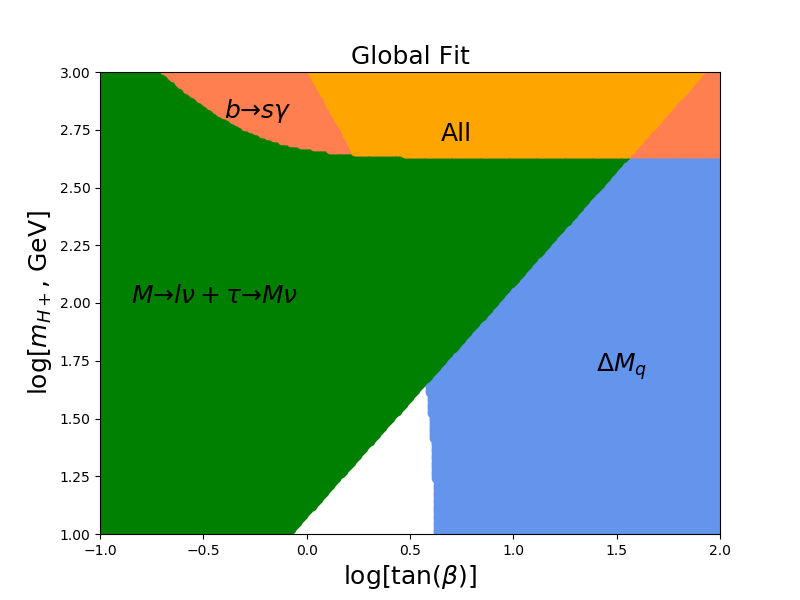
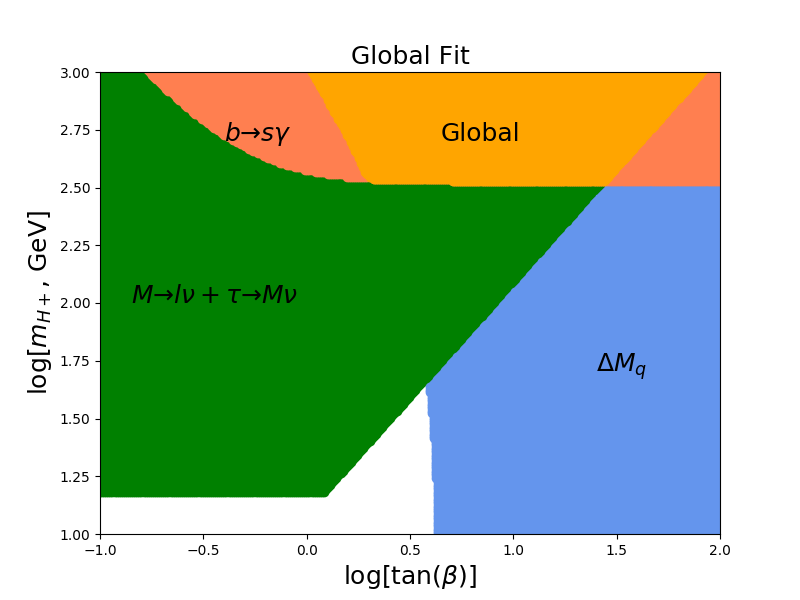
ups

diff --git a/calcs/functions.py b/calcs/functions.py
@@ -88,62 +88,117 @@ def itera(mm,mm_err,ml,ml_err,Vud,Vud_err,fm,fm_err,taum,taum_err,mu,mu_err,md,m
 
     return mH_loc, tanb_loc
 
-def mixing(mt,mH,mW,tanb,Vtq,Vtb,etaB,mB,fBq,BBq,expect):
+def Li2(x):
+    '''
+    Special function
+    '''
+    def func(t):
+        z = np.log(1-t)/t
+        return z
+    inte, err = quad(func,0,x)
+    return -1*inte
+
+def mixing(mt,mH,mW,tanb,Vtq,Vtb,etaB,mB,fBq,BBq,expect,lam):
     '''
         B mixing mass eqn
     '''
-    x_tH = mt**2/mH**2
-    x_tW = mt**2/mW**2
-    x_HW = mH**2/mW**2
-    S_WH = (x_tH/tanb**2)*((2*x_HW-8)*np.log(x_tH)/((1-x_HW)*(1-x_tH)**2) + 6*x_HW*np.log(x_tW)/((1-x_HW)*(1-x_tW)**2) - (8-2*x_tW)/((1-x_tW)*(1-x_tH)))
-    S_WW = (1 + 9/(1-x_tW) - 6/((1-x_tW)**2) - 6*(x_tW**2)*np.log(x_tW)/((1-x_tW)**3))
-    S_HH = (x_tH/tanb**4)*((1+x_tH)/((1-x_tH)**2) + 2*x_tH*np.log(x_tH)/((1-x_tH)**3))
-    
-#    Dsm = 
-#    DH = 
-#    Dx = 
-#
-#    lam_QCD = 224.972
-#    lmu = 2*np.log(mW/lam_QCD)
-#    as_m = (12*np.pi/(23*lmu))*(1 - (348/529)*(np.log(lmu)/lmu))
-#    eta2 = pow(as_m,-6/23)*(1+(as_m/(4*np.pi))*(Dx/Sx + Z))
+    lmu = 2*np.log(mW/lam)
+    as_m = (12*np.pi/(23*lmu))*(1 - (348/529)*(np.log(lmu)/lmu))
+    lmuM = 2*np.log(mW/mt)
+    amu = as_m/np.pi
+    factor = 1 - (4/3 + lmuM)*amu - (9.125 + 419*lmuM/72 + (2/9)*lmuM**2)*amu**2 - (0.3125*lmuM**3 + 4.5937*lmuM**2 + 25.3188*lmuM + 81.825)*amu**3
+    mtmu = mt*factor
+    gam0,gam1,b0,b1 = 4,-43/9,23/3,116/3
 
-    delt_mq = g_mev/(24*np.pi**2)*((Vtq*Vtb)**2)*etaB*mB*(mt**2)*(fBq**2)*BBq*(S_WW + S_WH + S_HH)
-#    delt_mq = expect*(1+(S_WH/S_WW)+(S_HH/S_WW))
+    x_tH = (mtmu/mH)**2
+    x_tW = (mtmu/mW)**2
+    x_HW = (mH/mW)**2
+    S_WH = (x_tH*x_tW/(4*tanb**2))*((2*x_tW-8*x_tH)*np.log(x_tH)/((x_tH-x_tW)*(1-x_tH)**2) + 6*x_tW*np.log(x_tW)/((x_tH-x_tW)*(1-x_tW)**2) - (8-2*x_tW)/((1-x_tW)*(1-x_tH)))
+    S_WW = x_tW*(1/4 + 9/(4*(1-x_tW)) - 3/(2*(1-x_tW)**2) - 3*(x_tW**2)*np.log(x_tW)/(2*(1-x_tW)**3))
+    S_HH = (x_tH*x_tW/(4*tanb**4))*((1+x_tH)/((1-x_tH)**2) + 2*x_tH*np.log(x_tH)/((1-x_tH)**3))
 
-    return delt_mq/hbar_mev
+    Lo = Li2(1-1/x_tW)
+    Lu = Li2(1-x_tW)
+    WW1tt = (4*x_tW+38*(x_tW**2)+6*(x_tW**3))*np.log(x_tW)/(x_tW-1)**4 + (12*x_tW+48*(x_tW**2)+12*(x_tW**3))*Lo/(x_tW-1)**4 + (24*x_tW+48*(x_tW**2))*Lu/(x_tW-1)**4 - (3+28*x_tW+17*(x_tW**2))/(x_tW-1)**3
+    WW1tu = 2*(3+13*x_tW)/(x_tW-1)**2 - 2*x_tW*(5+11*x_tW)*np.log(x_tW)/(x_tW-1)**3 - 12*x_tW*(1+3*x_tW)*Lo/(x_tW-1)**3 - 24*x_tW*(1+x_tW)*Lu/(x_tW-1)**3
+    PP1 = -(x_tW**2)*(7+52*x_tW-11*(x_tW**2))/(4*(x_tW-1)**3) + 3*(x_tW**3)*(4+5*x_tW-x_tW**2)*np.log(x_tW)/(2*(x_tW-1)**4) + 3*(x_tW**3)*(3+4*x_tW-x_tW**2)*Lo/(x_tW-1)**4 + 18*(x_tW**3)*Lu/(x_tW-1)**4
+    WP1 = 4*(x_tW**2)*(11+13*x_tW)/(x_tW-1)**3  + 2*(x_tW**2)*(5+x_tW)*(1-9*x_tW)*np.log(x_tW)/(x_tW-1)**4 - 24*(x_tW**2)*(1+4*x_tW+x_tW**2)*Lo/(x_tW-1)**4 - 48*(x_tW**2)*(1+2*x_tW)*Lu/(x_tW-1)**4
+    WW1 = WW1tt - WW1tu + 3
+    L1s = WW1 + WP1 + PP1
 
-def error_mixing(mt,mt_err,mH,mW,mW_err,tanb,Vtq,Vtq_err,Vtb,Vtb_err,etaB,etaB_err,mB,mB_err,fBq,fBq_err,BBq,BBq_err,expect,expect_err):
+    WW8tt = 2*x_tW*(4-3*x_tW)*np.log(x_tW)/(x_tW-1)**3 - (12*x_tW-12*x_tW**2 -8*x_tW**3)*Lo/(x_tW-1)**4 + (8-12*x_tW+12*x_tW**2)*Lu/(x_tW-1)**4 - (23-x_tW)/(x_tW-1)**2 
+    WW8tu = 2*(2-x_tW)*(np.pi**2)/(3*x_tW) - (8-5*x_tW)*np.log(x_tW)/(x_tW-1)**2 - (6*x_tW+4*x_tW**2)*Lo/(x_tW*(x_tW-1)**2) + (8+12*x_tW-6*x_tW**2)*Lu/(x_tW*(x_tW-1)**2) - 15/(x_tW-1)
+    PP8 = -11*(x_tW**2)*(1+x_tW)/(4*(x_tW-1)**2) + (x_tW**3)*(4-3*x_tW)*np.log(x_tW)/(2*(x_tW-1)**3) + (x_tW**3)*(3-3*x_tW+2*x_tW**2)*Lo/(x_tW-1)**4 + (x_tW**2)*(2+3*x_tW-3*x_tW**2)*Lu/(x_tW-1)**4
+    WP8 = 30*(x_tW**2)/(x_tW-1)**2 + 12*(x_tW**3)*np.log(x_tW)/(x_tW-1)**3 - 12*(x_tW**4)*Lo/(x_tW-1)**4 - 12*(x_tW**2)*(2-x_tW**2)*Lu/(x_tW-1)**4 
+    WW8 = WW8tt - WW8tu - 23 + (4/3)*np.pi**2
+    L8s = WW8 + WP8 + PP8
+
+    Loh = Li2(1-1/x_tH)
+    Luh = Li2(1-x_tH)
+    Louh = Li2(1-x_tH/x_tW)
+    PP1h = -(x_tH**2)*(7+52*x_tH-11*(x_tH**2))/(4*(x_tH-1)**3) + 3*(x_tH**3)*(4+5*x_tH-x_tH**2)*np.log(x_tH)/(2*(x_tH-1)**4) + 3*(x_tH**3)*(3+4*x_tH-x_tH**2)*Loh/(x_tH-1)**4 + 18*(x_tH**3)*Luh/(x_tH-1)**4
+    PP8h = -11*(x_tH**2)*(1+x_tH)/(4*(x_tH-1)**2) + (x_tH**3)*(4-3*x_tH)*np.log(x_tH)/(2*(x_tH-1)**3) + (x_tH**3)*(3-3*x_tH+2*x_tH**2)*Loh/(x_tH-1)**4 + (x_tH**2)*(2+3*x_tH-3*x_tH**2)*Luh/(x_tH-1)**4
+    dSHH = (x_tW*(x_tH**2)/(4*tanb**4))*((1+x_tH)/(1-x_tH)**2 + 2*x_tH*np.log(x_tH)/(1-x_tH)**3)
+    dSHW = ((x_tW**3)/(4*tanb**4))*((1+x_tW)/(1-x_tW)**2 + 2*x_tW*np.log(x_tW)/(1-x_tW)**3)
+#    dSHH = x_tH*((x_tH*x_tW/(4*tanb**4))*(2/(1-x_tH)**3 + (1-x_tH)**(-2) + 2*(1+x_tH)/(1-x_tH)**3 + 2*np.log(x_tH)/(1-x_tH)**3 + 6*x_tH*np.log(x_tH)/(1-x_tH)**4) + (x_tW/(4*tanb**4))*((1+x_tH)/(1-x_tH)**2 + 2*x_tH*np.log(x_tH)/(1-x_tH)**3))
+#    dSHW = (x_tH*x_tW/(4*tanb**4))*((1+x_tH)/(1-x_tH)**2 + 2*x_tH*np.log(x_tH)/(1-x_tH)**3)
+    HH1 = (x_tW/x_tH)*PP1h+6*(np.log(x_tH)-np.log(x_tW))*(dSHH+dSHW)
+    WH1 = x_tW*(2*(x_tH**2)*(13+3*x_tH)*np.log(x_tH)/((x_tH-x_tW)*(x_tH-1)**3) - 2*x_tH*(9+7*x_tH+7*x_tW-23*x_tW*x_tH)/pow((x_tW-1)*(x_tH-1),2) - 2*(x_tH**2)*(18-6*x_tH-44*x_tW+13*x_tH*x_tW+9*x_tH*x_tW**2)*np.log(x_tW)/((x_tH-x_tW)*(x_tH-1)**2 *(x_tW-1)**3) - 24*(x_tH**2)*np.log(x_tH)*np.log(x_tW)/((x_tH-x_tW)*(x_tH-1)**3) + 24*(x_tH**2)*Loh/((x_tH-x_tW)*(x_tH-1)**2) - 24*x_tH*x_tW*(1+x_tW)*Lo/((x_tH-x_tW)*(x_tW-1)**3) - 48*x_tW*x_tH*Lu/((x_tH-x_tW)*(x_tW-1)**3))
+    PH1 = (x_tW**2)*(x_tH*(31-15*x_tH-15*x_tW-x_tH*x_tW)/(2*pow((x_tH-1)*(x_tW-1),2)) - x_tH*(7+21*x_tH-12*x_tH**2)*np.log(x_tH)/(2*(x_tH-x_tW)*(x_tH-1)**3) + x_tH*(7-9*x_tW+36*x_tW**2 - 18*x_tW**3)*np.log(x_tW)/(2*(x_tH-x_tW)*(x_tH-1)**2 *(x_tW-1)**3) + (x_tH**2)*(8-36*x_tW+9*x_tW**2 + 3*x_tW**3)*np.log(x_tW)/((x_tH-x_tW)*(x_tH-1)**2 *(x_tW-1)**3) - (x_tH**3)*(11-45*x_tW+18*x_tW**2)*np.log(x_tW)/(2*(x_tH-x_tW)*(x_tH-1)**2 *(x_tW-1)**3) + 6*x_tH*np.log(x_tH)*np.log(x_tW)/((x_tH-x_tW)*(x_tH-1)**3) - 6*x_tH*(1+x_tH-x_tH**2)*Loh/((x_tH-x_tW)*(x_tH-1)**2) + 6*x_tH*(1+2*x_tW**2 -x_tW**3)*Lo/((x_tH-x_tW)*(x_tW-1)**3) + 12*x_tH*Lu/((x_tH-x_tW)*(x_tW-1)**3))
+    HH8 = (x_tW/x_tH)*PP8h+6*(np.log(x_tH)-np.log(x_tW))*S_HH
+    WH8 = x_tW*(24*x_tH*x_tW*Lu/((x_tH-x_tW)*(x_tW-1)**2) + 6*(x_tH**2)*(5*x_tW-x_tH+3*x_tH*x_tW**2)*Lo/((x_tH-x_tW)*pow((x_tH-1)*(x_tW-1),2)*x_tW) + 6*x_tH*(2*x_tW**2 -10*x_tH*x_tW+x_tH*x_tW**2)*Lo/((x_tH-x_tW)*pow((x_tH-1)*(x_tW-1),2)) + 6*(x_tH**2)*(5*x_tW-x_tH-8*x_tW**2 +2*x_tH*x_tW**2)*Luh/((x_tH-x_tW)*pow((x_tH-1)*(x_tW-1),2)*x_tW) + 6*(x_tW**2 -x_tH*x_tW+2*(x_tH*x_tW)**2)*Luh/((x_tH-x_tW)*pow((x_tH-1)*(x_tW-1),2)) + 6*(x_tH**2)*(-x_tH+5*x_tW)*Loh/(x_tW*(x_tH-x_tW)*(x_tH-1)**2) - 6*(x_tH**2)*(5*x_tW-x_tH-8*x_tW**2 +2*x_tH*x_tW**2)*Louh/(x_tW*(x_tH-x_tW)*pow((x_tH-1)*(x_tW-1),2)) - 6*(x_tW**2 -x_tH*x_tW+2*(x_tH*x_tW)**2)*Louh/((x_tH-x_tW)*pow((x_tH-1)*(x_tW-1),2)) - 6*(x_tH**2)*(1-x_tH-np.log(x_tH))/((x_tW-1)*(x_tH-1)**2) + 6*x_tH*(2*x_tW-1)*np.log(x_tW)/((x_tH-1)*(x_tW-1)**2) + 6*(x_tH**2)*(5*x_tW-x_tH-8*x_tW**2)*np.log(x_tH)*np.log(x_tW)/(x_tW*(x_tH-x_tW)*pow((x_tH-1)*(x_tW-1),2)) + 12*(x_tH**2)*(x_tH*x_tW+x_tW**2)*np.log(x_tH)*np.log(x_tW)/((x_tH-x_tW)*pow((x_tH-1)*(x_tW-1),2)))
+    PH8 = (x_tW**2)*((2*x_tH+2*x_tW-11*x_tH*x_tW)/(2*x_tW*(x_tW-1)*(x_tH-1)) - (2*x_tH**2 -7*x_tH*x_tW+2*x_tW*x_tH**2 +2*x_tW**2 +x_tH*x_tW**2)*np.log(x_tH)/(2*x_tW*(x_tW-1)*(x_tH-x_tW)*(x_tH-1)**2) - x_tH*(7-7*x_tH+4*x_tW-6*x_tW**2)*np.log(x_tW)/(2*(x_tH-1)*(x_tH-x_tW)*(x_tW-1)**2) + (x_tH**2 +x_tW**2 -3*pow(x_tH*x_tW,2))*np.log(x_tW)/(x_tW*(x_tH-1)*(x_tH-x_tW)*(x_tW-1)**2) - (x_tH**2)*(4-6*x_tW+3*x_tH*x_tW)*np.log(x_tH)*np.log(x_tW)/(x_tW*(x_tH-x_tW)*pow((x_tH-1)*(x_tW-1),2)) + x_tH*(x_tH**2 -3*x_tW**2 +6*x_tW**3 -3*x_tW**4)*np.log(x_tH)*np.log(x_tW)/((x_tH-x_tW)*pow(x_tW*(x_tH-1)*(x_tW-1),2)) - x_tH*(3*x_tW**2 +2*x_tH*x_tW*(2+x_tW)-(x_tH**2)*(1+2*x_tW))*Loh/((x_tH-x_tW)*pow(x_tW*(x_tH-1),2)) - (4*x_tH*x_tW-6*x_tW*x_tH**2 +3*pow(x_tH*x_tW,2)-x_tW**2)*Luh/(x_tH*(x_tH-x_tW)*pow((x_tH-1)*(x_tW-1),2)) - (4*x_tW*x_tH**2 -6*pow(x_tH*x_tW,2)-x_tH**3 +3*(x_tW**2)*(x_tH**3))*Luh/((x_tH-x_tW)*pow(x_tW*(x_tW-1)*(x_tH-1),2)) + 2*(x_tH**2)*(6-x_tW**2 -3*x_tH+x_tW*x_tH)*Lo/((x_tH-x_tW)*pow((x_tH-1)*(x_tW-1),2)) - x_tH*(3*x_tW**2 +4*x_tH*x_tW-x_tH**2)*Lo/((x_tH-x_tW)*pow(x_tW*(x_tW-1)*(x_tH-1),2)) + (4*x_tH*x_tW-6*x_tW*x_tH**2 +3*pow(x_tH*x_tW,2)-x_tW**2)*Louh/(x_tH*(x_tH-x_tW)*pow((x_tH-1)*(x_tW-1),2)) + (x_tH**2)*(4*x_tW-6*x_tW**2 -x_tH+3*x_tH*x_tW**2)*Louh/((x_tH-x_tW)*pow(x_tW*(x_tH-1)*(x_tW-1),2)) - 6*x_tH*Lu/((x_tH-x_tW)*(x_tW-1)**2))
+    L1h = (1/tanb**2)*WH1 + (1/tanb**2)*PH1 + (1/tanb**4)*HH1
+    L8h = (1/tanb**2)*WH8 + (1/tanb**2)*PH8 + (1/tanb**4)*HH8
+
+    CA = 1/3
+    CF = 4/3
+    Dsm = CF*(L1s+3*S_WW)+CA*(L8s+5*S_WW)
+    DH = CF*(L1h+3*(S_WH+S_HH))+CA*(L8h+5*(S_WH+S_HH))
+    Dx = Dsm + DH
+    Sx = S_WW+S_WH+S_HH
+    Z = -5165/3174
+    eta2 = pow(as_m,6/23)*(1+(as_m/(4*np.pi))*(Dx/Sx + Z))
+    #print eta2
+
+    delt_mq = g_gev/(6*np.pi**2)*((Vtq*Vtb)**2)*eta2*mB*(mW**2)*(fBq**2)*BBq*Sx
+    #delt_mq = g_mev/(24*np.pi**2)*((Vtq*Vtb)**2)*etaB*mB*(mt**2)*(fBq**2)*BBq*(S_WW)# + S_WH + S_HH)
+
+    return delt_mq/hbar_gev
+
+def error_mixing(mt,mt_err,mH,mW,mW_err,tanb,Vtq,Vtq_err,Vtb,Vtb_err,etaB,etaB_err,mB,mB_err,fBq,fBq_err,BBq,BBq_err,expect,expect_err,lam,lam_err):
     '''
         Calculates errors in branching ratios, using functional method
         - all err vars are [up,low]
     '''
-    mix = mixing(mt,mH,mW,tanb,Vtq,Vtb,etaB,mB,fBq,BBq,expect)
-    err1_up = abs(mixing(mt+mt_err[0],mH,mW,tanb,Vtq,Vtb,etaB,mB,fBq,BBq,expect)-mix)
-    err1_low = abs(mixing(mt+mt_err[1],mH,mW,tanb,Vtq,Vtb,etaB,mB,fBq,BBq,expect)-mix)
-    err2_up = abs(mixing(mt,mH,mW+mW_err[0],tanb,Vtq,Vtb,etaB,mB,fBq,BBq,expect)-mix)
-    err2_low = abs(mixing(mt,mH,mW+mW_err[1],tanb,Vtq,Vtb,etaB,mB,fBq,BBq,expect)-mix)
-    err3_up = abs(mixing(mt,mH,mW,tanb,Vtq+Vtq_err[0],Vtb,etaB,mB,fBq,BBq,expect)-mix)
-    err3_low = abs(mixing(mt,mH,mW,tanb,Vtq+Vtq_err[1],Vtb,etaB,mB,fBq,BBq,expect)-mix)
-    err4_up = abs(mixing(mt,mH,mW,tanb,Vtq,Vtb+Vtb_err[0],etaB,mB,fBq,BBq,expect)-mix)
-    err4_low = abs(mixing(mt,mH,mW,tanb,Vtq,Vtb+Vtb_err[1],etaB,mB,fBq,BBq,expect)-mix)
-    err5_up = abs(mixing(mt,mH,mW,tanb,Vtq,Vtb,etaB+etaB_err[0],mB,fBq,BBq,expect)-mix)
-    err5_low = abs(mixing(mt,mH,mW,tanb,Vtq,Vtb,etaB+etaB_err[1],mB,fBq,BBq,expect)-mix)
-    err6_up = abs(mixing(mt,mH,mW,tanb,Vtq,Vtb,etaB,mB+mB_err[0],fBq,BBq,expect)-mix)
-    err6_low = abs(mixing(mt,mH,mW,tanb,Vtq,Vtb,etaB,mB+mB_err[1],fBq,BBq,expect)-mix)
-    err7_up = abs(mixing(mt,mH,mW,tanb,Vtq,Vtb,etaB,mB,fBq+fBq_err[0],BBq,expect)-mix)
-    err7_low = abs(mixing(mt,mH,mW,tanb,Vtq,Vtb,etaB,mB,fBq+fBq_err[1],BBq,expect)-mix)
-    err8_up = abs(mixing(mt,mH,mW,tanb,Vtq,Vtb,etaB,mB,fBq,BBq+BBq_err[0],expect)-mix)
-    err8_low = abs(mixing(mt,mH,mW,tanb,Vtq,Vtb,etaB,mB,fBq,BBq+BBq_err[1],expect)-mix)
-    err9_up = abs(mixing(mt,mH,mW,tanb,Vtq,Vtb,etaB,mB,fBq,BBq+BBq_err[0],expect+expect_err[0])-mix)
-    err9_low = abs(mixing(mt,mH,mW,tanb,Vtq,Vtb,etaB,mB,fBq,BBq+BBq_err[1],expect+expect_err[1])-mix)
+    mix = mixing(mt,mH,mW,tanb,Vtq,Vtb,etaB,mB,fBq,BBq,expect,lam)
+    err1_up = abs(mixing(mt+mt_err[0],mH,mW,tanb,Vtq,Vtb,etaB,mB,fBq,BBq,expect,lam)-mix)
+    err1_low = abs(mixing(mt+mt_err[1],mH,mW,tanb,Vtq,Vtb,etaB,mB,fBq,BBq,expect,lam)-mix)
+    err2_up = abs(mixing(mt,mH,mW+mW_err[0],tanb,Vtq,Vtb,etaB,mB,fBq,BBq,expect,lam)-mix)
+    err2_low = abs(mixing(mt,mH,mW+mW_err[1],tanb,Vtq,Vtb,etaB,mB,fBq,BBq,expect,lam)-mix)
+    err3_up = abs(mixing(mt,mH,mW,tanb,Vtq+Vtq_err[0],Vtb,etaB,mB,fBq,BBq,expect,lam)-mix)
+    err3_low = abs(mixing(mt,mH,mW,tanb,Vtq+Vtq_err[1],Vtb,etaB,mB,fBq,BBq,expect,lam)-mix)
+    err4_up = abs(mixing(mt,mH,mW,tanb,Vtq,Vtb+Vtb_err[0],etaB,mB,fBq,BBq,expect,lam)-mix)
+    err4_low = abs(mixing(mt,mH,mW,tanb,Vtq,Vtb+Vtb_err[1],etaB,mB,fBq,BBq,expect,lam)-mix)
+    err5_up = abs(mixing(mt,mH,mW,tanb,Vtq,Vtb,etaB+etaB_err[0],mB,fBq,BBq,expect,lam)-mix)
+    err5_low = abs(mixing(mt,mH,mW,tanb,Vtq,Vtb,etaB+etaB_err[1],mB,fBq,BBq,expect,lam)-mix)
+    err6_up = abs(mixing(mt,mH,mW,tanb,Vtq,Vtb,etaB,mB+mB_err[0],fBq,BBq,expect,lam)-mix)
+    err6_low = abs(mixing(mt,mH,mW,tanb,Vtq,Vtb,etaB,mB+mB_err[1],fBq,BBq,expect,lam)-mix)
+    err7_up = abs(mixing(mt,mH,mW,tanb,Vtq,Vtb,etaB,mB,fBq+fBq_err[0],BBq,expect,lam)-mix)
+    err7_low = abs(mixing(mt,mH,mW,tanb,Vtq,Vtb,etaB,mB,fBq+fBq_err[1],BBq,expect,lam)-mix)
+    err8_up = abs(mixing(mt,mH,mW,tanb,Vtq,Vtb,etaB,mB,fBq,BBq+BBq_err[0],expect,lam)-mix)
+    err8_low = abs(mixing(mt,mH,mW,tanb,Vtq,Vtb,etaB,mB,fBq,BBq+BBq_err[1],expect,lam)-mix)
+    err9_up = abs(mixing(mt,mH,mW,tanb,Vtq,Vtb,etaB,mB,fBq,BBq,expect+expect_err[0],lam)-mix)
+    err9_low = abs(mixing(mt,mH,mW,tanb,Vtq,Vtb,etaB,mB,fBq,BBq,expect+expect_err[1],lam)-mix)
+    err10_up = abs(mixing(mt,mH,mW,tanb,Vtq,Vtb,etaB,mB,fBq,BBq,expect,lam+lam_err[0])-mix)
+    err10_low = abs(mixing(mt,mH,mW,tanb,Vtq,Vtb,etaB,mB,fBq,BBq,expect,lam+lam_err[1])-mix)
 
-    upper = np.sqrt(err1_up**2 + err2_up**2 + err3_up**2 + err4_up**2 + err5_up**2 + err6_up**2 + err7_up**2 + err8_up**2 + err9_up**2)
-    lower = np.sqrt(err1_low**2 + err2_low**2 + err3_low**2 + err4_low**2 + err5_low**2 + err6_low**2 + err7_low**2 + err8_low**2 + err9_low**2)
+    upper = np.sqrt(err1_up**2 + err2_up**2 + err3_up**2 + err4_up**2 + err5_up**2 + err6_up**2 + err7_up**2 + err8_up**2 + err9_up**2 + err10_up**2)
+    lower = np.sqrt(err1_low**2 + err2_low**2 + err3_low**2 + err4_low**2 + err5_low**2 + err6_low**2 + err7_low**2 + err8_low**2 + err9_low**2 + err10_low**2)
 
     return upper, lower
 
-def itera_mix(mt,mt_err,mW,mW_err,Vtq,Vtq_err,Vtb,Vtb_err,etaB,etaB_err,mB,mB_err,fBq,fBq_err,BBq,BBq_err,branch_exp,branch_exp_error,expect,expect_err):
+def itera_mix(mt,mt_err,mW,mW_err,Vtq,Vtq_err,Vtb,Vtb_err,etaB,etaB_err,mB,mB_err,fBq,fBq_err,BBq,BBq_err,branch_exp,branch_exp_error,expect,expect_err,lambda_QCD,QCD_err):
     '''
         Choose min,max limits for scope of tan(beta) and mH+, then check for each point in this if:
             - upper error on branching sm is above the lower error on branching exp
@@ -154,7 +209,7 @@ def itera_mix(mt,mt_err,mW,mW_err,Vtq,Vtq_err,Vtb,Vtb_err,etaB,etaB_err,mB,mB_er
     exp_branch_up,exp_branch_down = branch_exp+branch_exp_error[0],branch_exp+branch_exp_error[1]
     av_br = 0.5*(exp_branch_up+exp_branch_down)
     sige_br = sigma*(exp_branch_up-av_br)
-    log_mH_range = np.linspace(3,6.5,350)
+    log_mH_range = np.linspace(0,3.5,350)
     log_tanb_range = np.linspace(-1,2,300)
     mH_range = 10**log_mH_range
     tanb_range = 10**log_tanb_range
@@ -162,9 +217,9 @@ def itera_mix(mt,mt_err,mW,mW_err,Vtq,Vtq_err,Vtb,Vtb_err,etaB,etaB_err,mB,mB_er
     tanb_loc = []
     for i in mH_range:
         for j in tanb_range:
-            expect_branch = mixing(mt,i,mW,j,Vtq,Vtb,etaB,mB,fBq,BBq,expect)
+            expect_branch = mixing(mt,i,mW,j,Vtq,Vtb,etaB,mB,fBq,BBq,expect,lambda_QCD)
 #            print expect_branch*1e-12
-            expect_error = error_mixing(mt,mt_err,i,mW,mW_err,j,Vtq,Vtq_err,Vtb,Vtb_err,etaB,etaB_err,mB,mB_err,fBq,fBq_err,BBq,BBq_err,expect,expect_err)
+            expect_error = error_mixing(mt,mt_err,i,mW,mW_err,j,Vtq,Vtq_err,Vtb,Vtb_err,etaB,etaB_err,mB,mB_err,fBq,fBq_err,BBq,BBq_err,expect,expect_err,lambda_QCD,QCD_err)
             expect_branch_up, expect_branch_down = expect_branch+expect_error[0],expect_branch-expect_error[1]
             mid_br = 0.5*(expect_branch_up+expect_branch_down)
             sig_br = sigma*(expect_branch_up-mid_br)
@@ -174,8 +229,8 @@ def itera_mix(mt,mt_err,mW,mW_err,Vtq,Vtq_err,Vtb,Vtb_err,etaB,etaB_err,mB,mB_er
                 mH_loc = np.append(mH_loc,i_log)
                 tanb_loc = np.append(tanb_loc,j_log)
 
-    for i in range(len(mH_loc)):
-        mH_loc[i] = mH_loc[i]-3
+#    for i in range(len(mH_loc)):
+#        mH_loc[i] = mH_loc[i]-3
 
     return mH_loc, tanb_loc
 

diff --git a/calcs/branching.py b/calcs/branching.py
@@ -265,29 +265,32 @@ delta_b,delta_d = 0.982,0.99*0.982
 
 ###############   MIXING
 
-mt, mt_err = [172.9e3,[0.4e3,-0.4e3]]
-mW, mW_err = [80.379e3,[0.012e3,-0.012e3]]
-mBd, mBd_err = [5279.64,[0.13,-0.13]]
-mBs, mBs_err = [5366.88,[0.17,-0.17]]
+mt, mt_err = [172.9,[0.4,-0.4]]
+mW, mW_err = [80.379,[0.012,-0.012]]
+mBd, mBd_err = [5.27964,[0.00013,-0.00013]]
+mBs, mBs_err = [5.36688,[0.00017,-0.00017]]
+lambda_QCD, QCD_err = [0.224972,[0.012886,-0.007412]]
 
 etaB, etaB_err = [0.537856,[0,0]]
 
-fBs, fBs_err = [230.3,[1.3,-1.3]]
-fBd, fBd_err = [190,[1.3,-1.3]]
+fBs, fBs_err = [0.2303,[0.0013,-0.0013]]
+fBd, fBd_err = [0.190,[0.0013,-0.0013]]
 
 BBs, BBs_err = [1.290,[0.035,-0.035]]
 BBd, BBd_err = [1.268,[0.042,-0.042]]
+#BBs, BBs_err = [0.849,[0.023,-0.023]]
+#BBd, BBd_err = [0.835,[0.028,-0.028]]
 
 delt_md, delt_md_err = [0.5064e12,[0.0019e12,-0.0019e12]]
 delt_ms, delt_ms_err = [17.757e12,[0.021e12,-0.021e12]]
 delt_md_expect, delt_md_err_exp = [0.533e12,[0.022e12,-0.036e12]]
 delt_ms_expect, delt_ms_err_exp = [18.4e12,[0.7e12,-1.2e12]]
 
-#bdmix, bderr = mixing(mt,1,mW,1,Vtd,Vtb,etaB,mBd,fBd,BBd,1),error_mixing(mt,mt_err,1,mW,mW_err,1,Vtd,Vtd_err,Vtb,Vtb_err,etaB,etaB_err,mBd,mBd_err,fBd,fBd_err,BBd,BBd_err,1,[1,1])
-#bsmix, bserr = mixing(mt,1,mW,1,Vts,Vtb,etaB,mBs,fBs,BBs,1),error_mixing(mt,mt_err,1,mW,mW_err,1,Vts,Vts_err,Vtb,Vtb_err,etaB,etaB_err,mBs,mBs_err,fBs,fBs_err,BBs,BBs_err,1,[1,1])
-#print("Bd mixing =",bdmix*1e-12,"+",bderr[0]*1e-12,"-",bderr[1]*1e-12)
-#print("Bs mixing =",bsmix*1e-12,"+",bserr[0]*1e-12,"-",bserr[1]*1e-12)
-#quit()
+bdmix, bderr = mixing(mt,1e15,mW,1e15,Vtd,Vtb,etaB,mBd,fBd,BBd,1,lambda_QCD),error_mixing(mt,mt_err,1e15,mW,mW_err,1e15,Vtd,Vtd_err,Vtb,Vtb_err,etaB,etaB_err,mBd,mBd_err,fBd,fBd_err,BBd,BBd_err,1,[1,1],lambda_QCD,QCD_err)
+bsmix, bserr = mixing(mt,1e15,mW,1e15,Vts,Vtb,etaB,mBs,fBs,BBs,1,lambda_QCD),error_mixing(mt,mt_err,1e15,mW,mW_err,1e15,Vts,Vts_err,Vtb,Vtb_err,etaB,etaB_err,mBs,mBs_err,fBs,fBs_err,BBs,BBs_err,1,[1,1],lambda_QCD,QCD_err)
+print("Bd mixing =",bdmix*1e-12,"+",bderr[0]*1e-12,"-",bderr[1]*1e-12)
+print("Bs mixing =",bsmix*1e-12,"+",bserr[0]*1e-12,"-",bserr[1]*1e-12)
+quit()
 
 # OLD INPUTS
 #mt, mt_err = [172.4e3,[1.2e3,-1.2e3]]
@@ -309,7 +312,7 @@ delt_ms_expect, delt_ms_err_exp = [18.4e12,[0.7e12,-1.2e12]]
 #delt_ms_expect, delt_ms_err_exp = [19.0e12,[6.6e12,-6.6e12]]
 
 # B0d mixing
-#mH_md, tanb_md = itera_mix(mt,mt_err,mW,mW_err,Vtd,Vtd_err,Vtb,Vtb_err,etaB,etaB_err,mBd,mBd_err,fBd,fBd_err,BBd,BBd_err,delt_md,delt_md_err,delt_md_expect,delt_md_err_exp)
+#mH_md, tanb_md = itera_mix(mt,mt_err,mW,mW_err,Vtd,Vtd_err,Vtb,Vtb_err,etaB,etaB_err,mBd,mBd_err,fBd,fBd_err,BBd,BBd_err,delt_md,delt_md_err,delt_md_expect,delt_md_err_exp,lambda_QCD,QCD_err)
 #x,y,z = error_mixing(mt,mt_err,1,mW,mW_err,1,Vtd,Vtd_err,Vtb,Vtb_err,etaB,etaB_err,mBd,mBd_err,fBd,fBd_err,BBd,BBd_err,delt_md,delt_md_err)
 ##print (1e-12)*(z+x)
 ##print (1e-12)*(z-y)
@@ -323,7 +326,7 @@ delt_ms_expect, delt_ms_err_exp = [18.4e12,[0.7e12,-1.2e12]]
 #plt.xticks(fontsize=18)
 #plt.yticks(fontsize=18)
 #plt.axis([-1,2,0,3.5])
-##plt.show()
+#plt.show()
 #plt.savefig('bmix.png')
 
 # B0s mixing
@@ -344,7 +347,6 @@ delt_ms_expect, delt_ms_err_exp = [18.4e12,[0.7e12,-1.2e12]]
 
 ###################### b to s gamma
 
-lambda_QCD, QCD_err = [0.224972,[0.012886,-0.007412]]
 mt1, mt1_err = [173.1,[0.9,-0.9]]
 mW1, mW1_err = [80.379,[0.012,-0.012]]
 mub = 1.095
